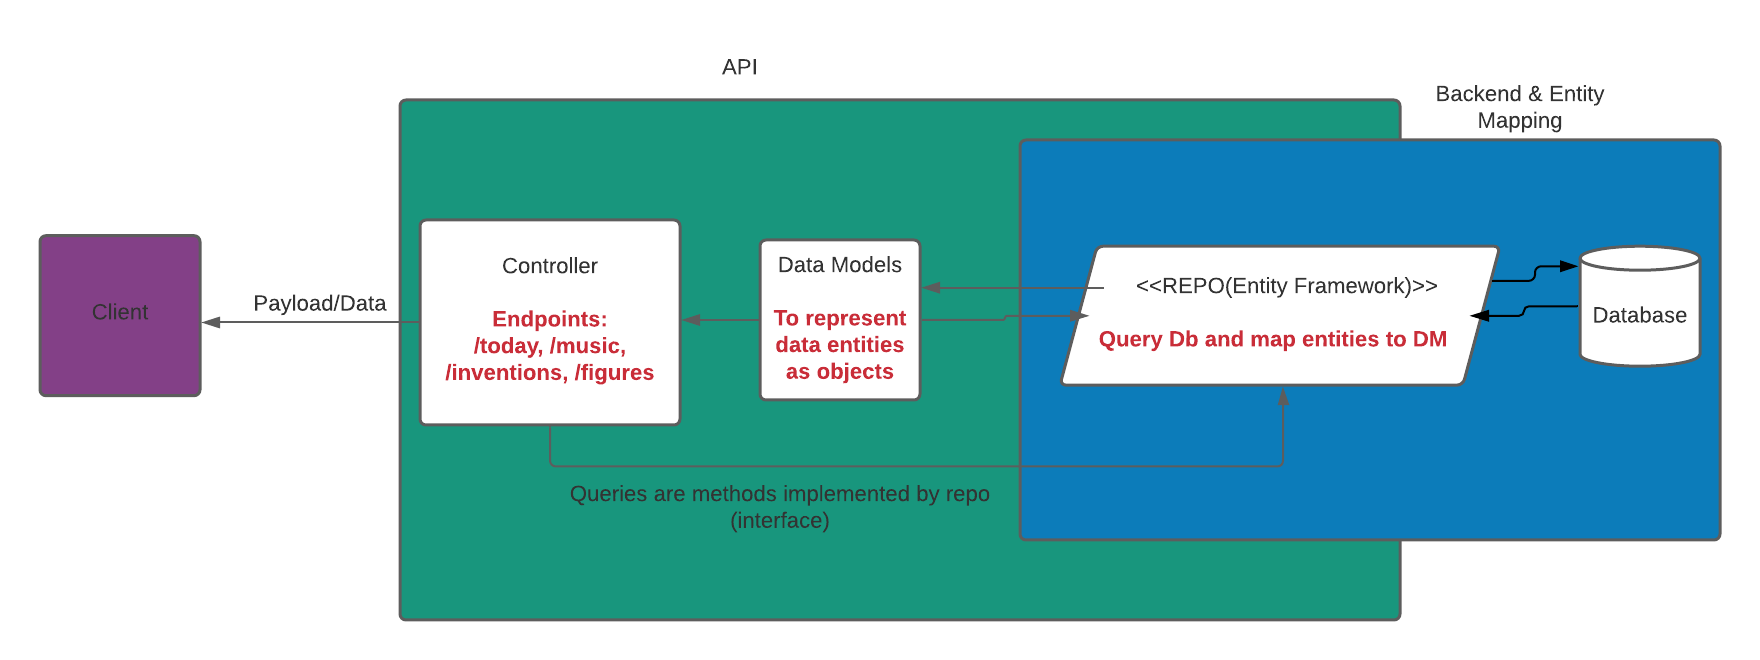
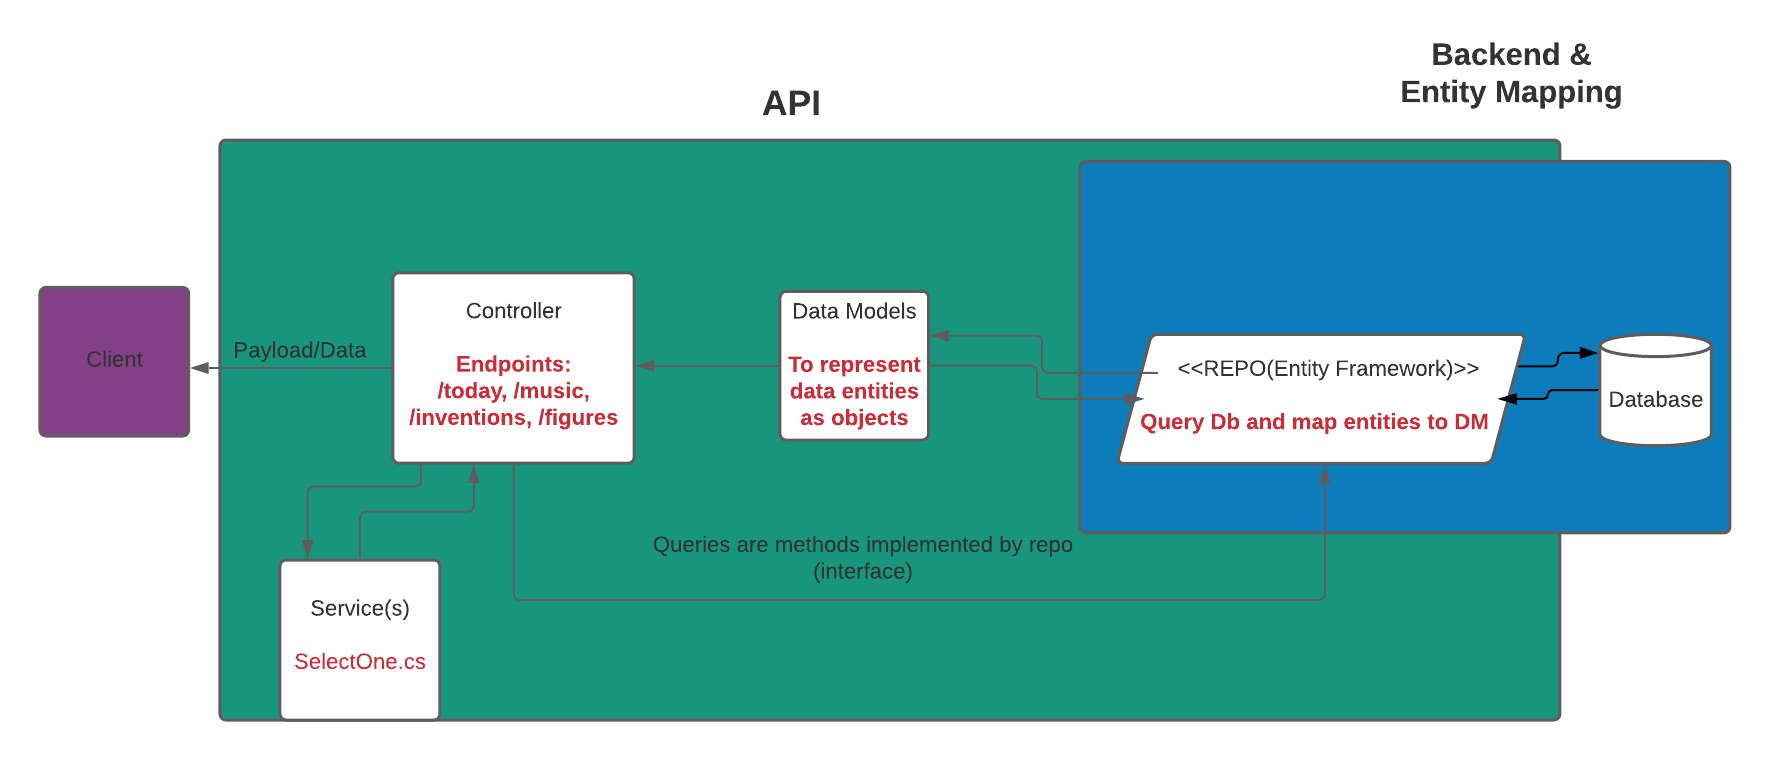
updates to diagrams and README

Changed region(s): [[0.0, 0.0606, 1.0, 0.9697]]

diff --git a/README.md b/README.md
@@ -5,8 +5,7 @@ Senior project completed in final semester at SC State University
 - Malidoma Patrice Somé
 
 This API is a passion project, and aims to be an API that focuses on African-American history, literature, art, etc.
-
-I want to give black artists their flowers while they are here, and make sure that that we have some way to remember them for their work and their constibution to black beauty.
+We want to give black artists their flowers while they are here, and make sure that that we have some way to remember them for their work and their constibution to black beauty.
 
 It's so culturally important to have access to your history, and your value, especially in a place where we aren't so fortunate as to be valued.
 
@@ -15,4 +14,8 @@ It's my hope that this API will help African-American history be more accessible
 # Contributors 
 
 [Roderick Bishop](https://github.com/roderick-bishop11)
-[Taighlor Moultrie]()
+[Taighlor Moultrie](https://github.com/taighlor326)
+
+# Report
+
+This is our report submitted for the course. More insight on the project, it's development, and it's completion will be in teh report.
